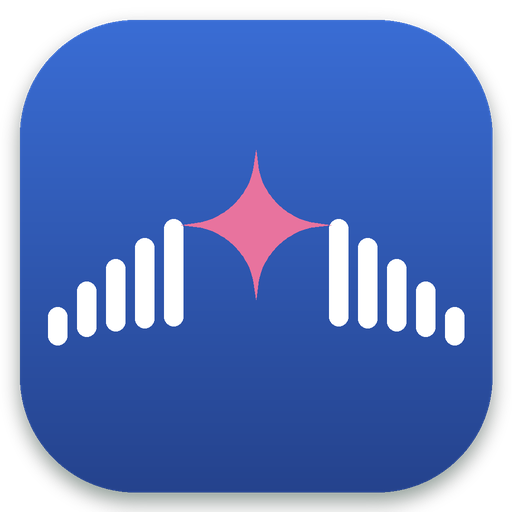
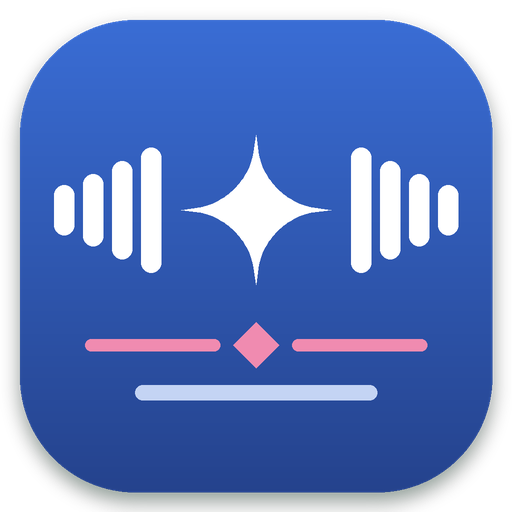
圖示改用 E：白色四芒星、兩邊聲波往中間變高、下方加分隔線；工作列顯示 hoyoTTS 圖示
- 分隔線下方白線改實色（半透明會透出背景變灰），B 一起修正
- 設定 AppUserModelID，工作列不再顯示 Python 圖示

Changed region(s): [[0.0938, 0.2812, 0.9062, 0.7188], [0.25, 0.75, 0.75, 0.7812]]

diff --git a/tools/make_icon.py b/tools/make_icon.py
@@ -72,14 +72,16 @@ def design_b():
     img = _rounded_base()
     d = ImageDraw.Draw(img)
     _bars(d, 512, 420, [120, 230, 330, 400, 330, 230, 120], 54, 34, WHITE)
-    # 分隔線：兩段金線，中間菱形
-    y = 690
+    _divider(d)
+    return img
+
+
+def _divider(d, y=690):
+    """劇情對話框的分隔線：兩段粉線、中間菱形，下面一條白線（代表台詞）。"""
     d.rounded_rectangle((170, y - 12, 440, y + 12), 12, fill=GOLD)
     d.rounded_rectangle((584, y - 12, 854, y + 12), 12, fill=GOLD)
     d.polygon([(512, y - 46), (558, y), (512, y + 46), (466, y)], fill=GOLD)
-    # 下方兩行字（淡）
-    d.rounded_rectangle((270, 770, 754, 800), 15, fill=(255, 255, 255, 150))
-    return img
+    d.rounded_rectangle((270, y + 80, 754, y + 110), 15, fill=(196, 212, 244))  # 實色淡藍白（半透明會直接蓋掉底色、透出背景）
 
 
 def design_c():
@@ -130,11 +132,13 @@ def design_d():
 
 
 def design_e():
-    """保留中間的四芒星（粉色），兩邊翅膀變成聲波。"""
+    """中間白色四芒星，兩邊翅膀變成聲波（往中間越來越高），下方是 B 的粉色分隔線和白線。"""
     img = _rounded_base()
     d = ImageDraw.Draw(img)
-    _wing_bars(d, 512, 165, 58, [215, 180, 145, 110, 76], [545, 566, 590, 618, 652], 38, WHITE)
-    _star(d, 512, 450, 150, PINK)
+    cy = 420
+    _wing_bars(d, 512, 210, 58, [250, 195, 145, 100], [cy] * 4, 40, WHITE)
+    _star(d, 512, cy, 150, WHITE)
+    _divider(d)
     return img
 
 

diff --git a/hoyotts/ui.py b/hoyotts/ui.py
@@ -750,7 +750,11 @@ def run() -> None:
 
 
 def ctypes_dpi() -> None:
-    """高 DPI 螢幕下字不要糊掉。"""
+    """高 DPI 螢幕下字不要糊掉；並設定自己的 AppUserModelID，工作列才會顯示 hoyoTTS 的圖示而不是 Python 的。"""
     import ctypes
 
     ctypes.windll.shcore.SetProcessDpiAwareness(1)
+    try:
+        ctypes.windll.shell32.SetCurrentProcessExplicitAppUserModelID("hoyoTTS.app")
+    except (AttributeError, OSError):
+        pass
